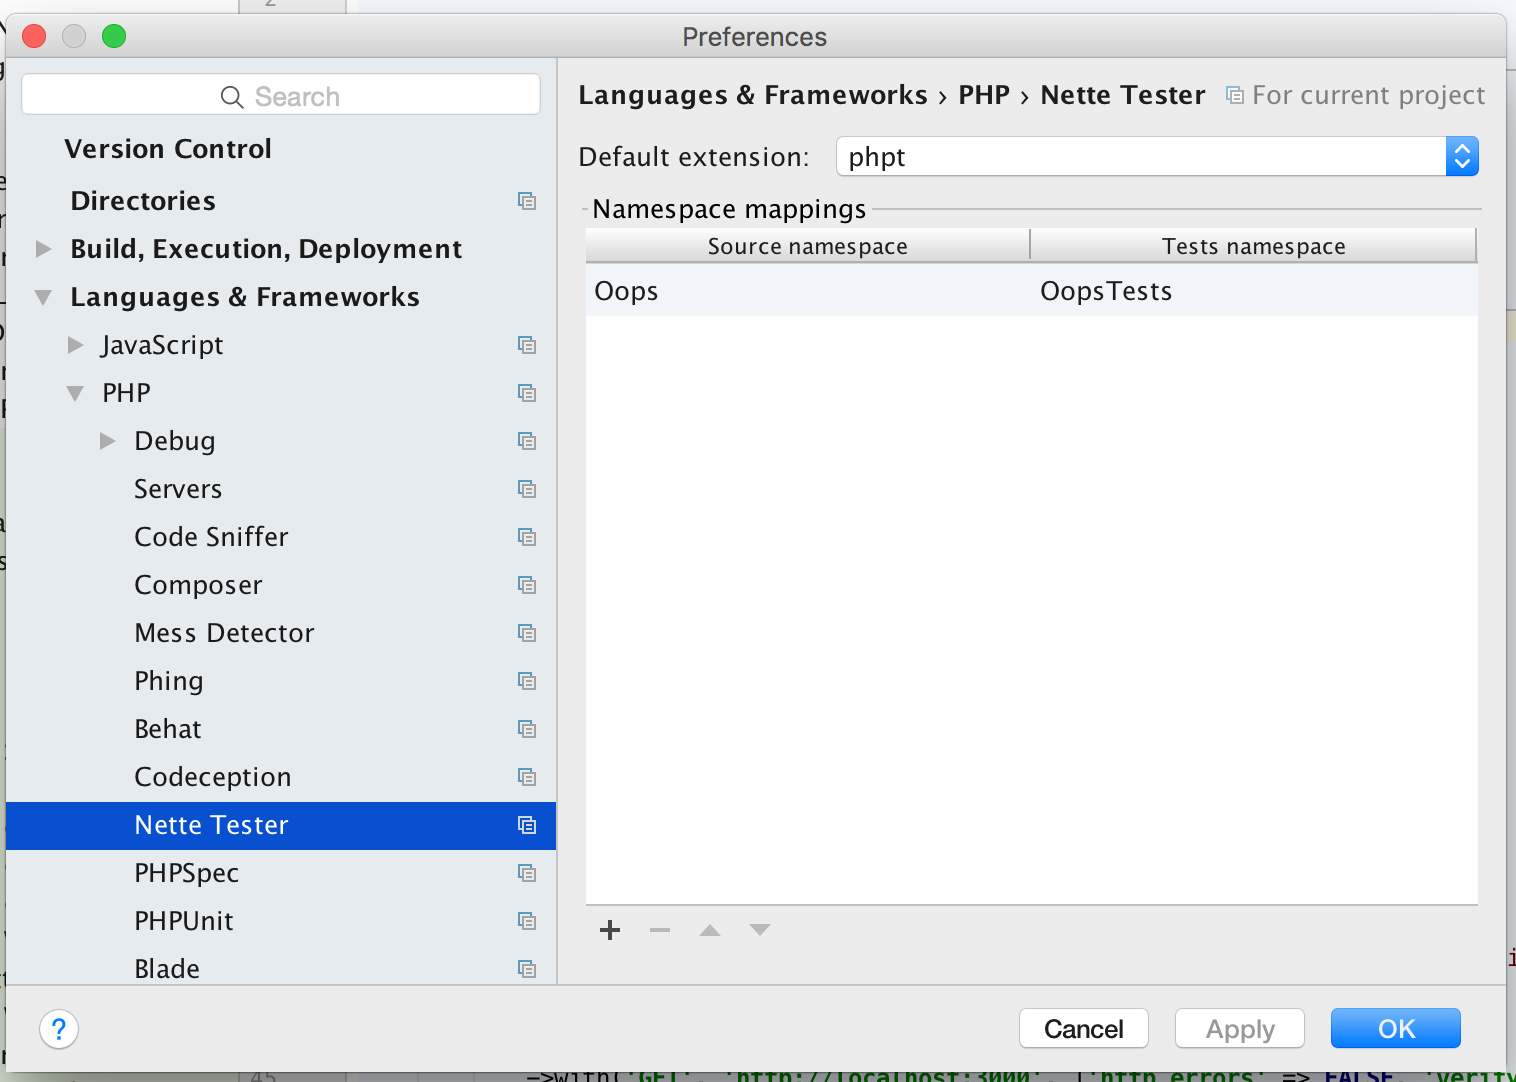
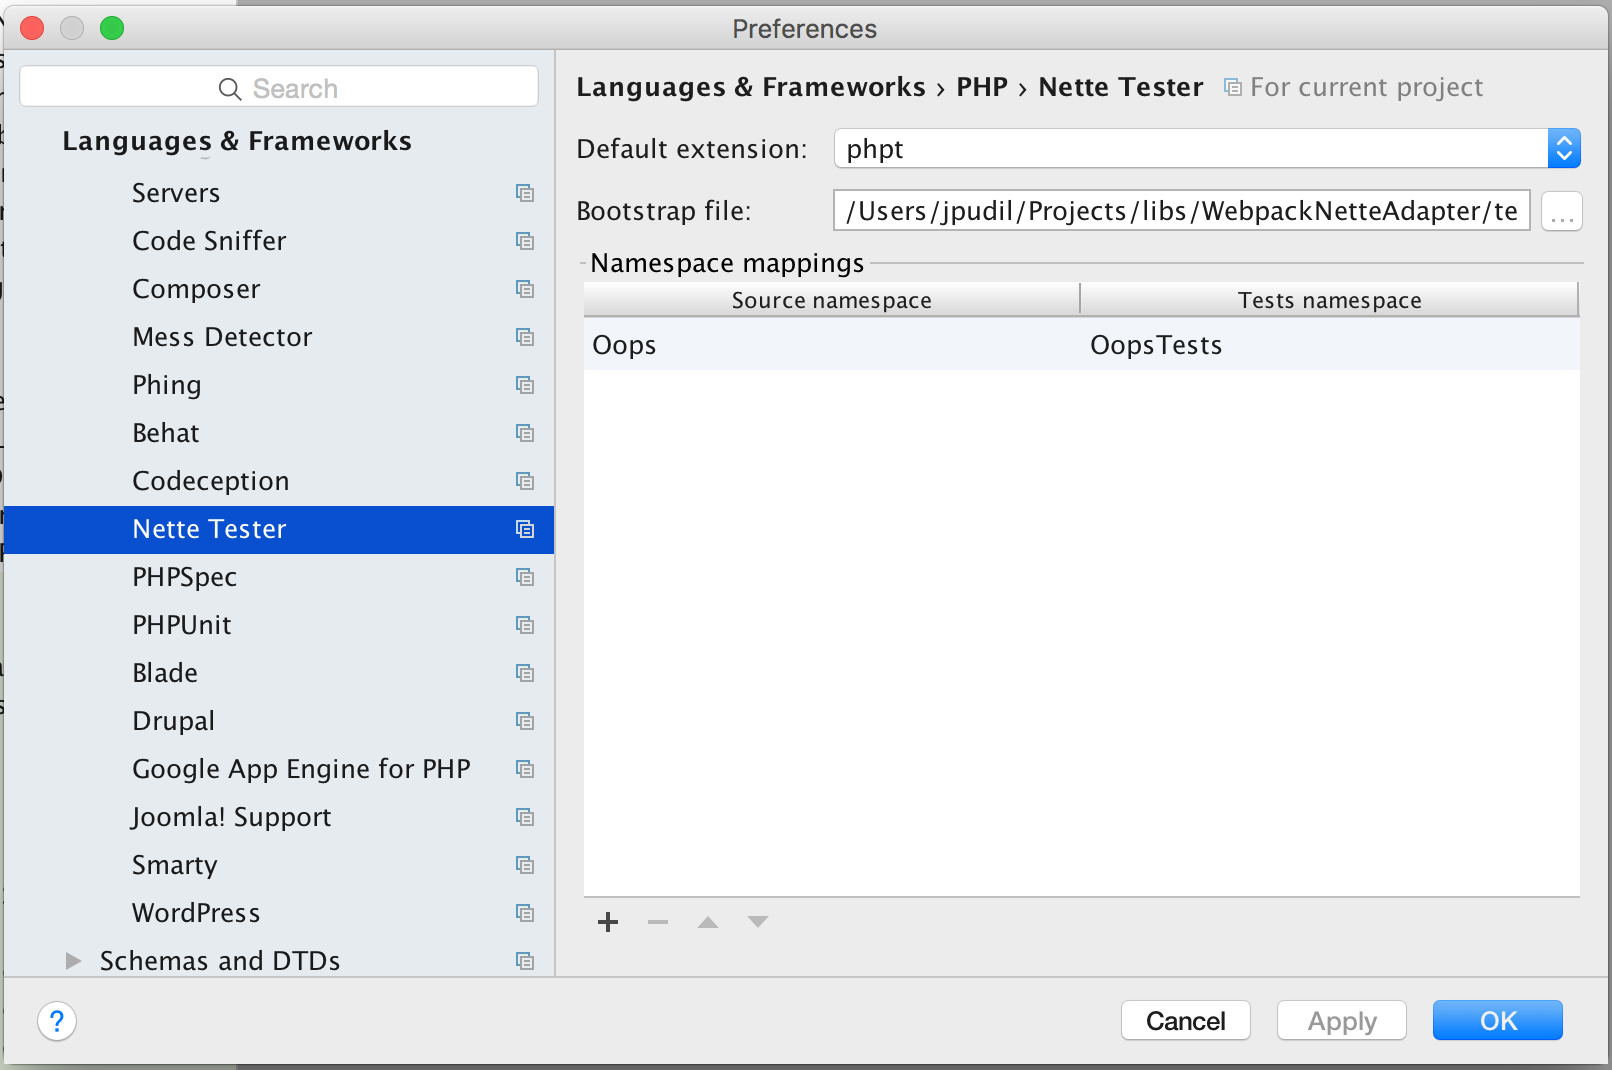
Release 2.0.0-beta.2

Changed region(s): [[0.0, 0.0, 1.0, 1.0]]

diff --git a/README.md b/README.md
@@ -52,6 +52,13 @@ If you create a test for a class, the dialog now follows your namespace mapping 
 
 ![Create a TestCase dialog](doc/create_test_dialog.png)
 
+In the project settings, you can also configure the path to your test environment bootstrap file, which is then automatically required in the generated TestCase files.
+
+
+### Running a single test method
+
+You can right-click a single test method to run or even debug it in isolation. This merely executes the file as a PHP script, with the method name as a single argument.
+
 
 ### Running tests from a directory
 
